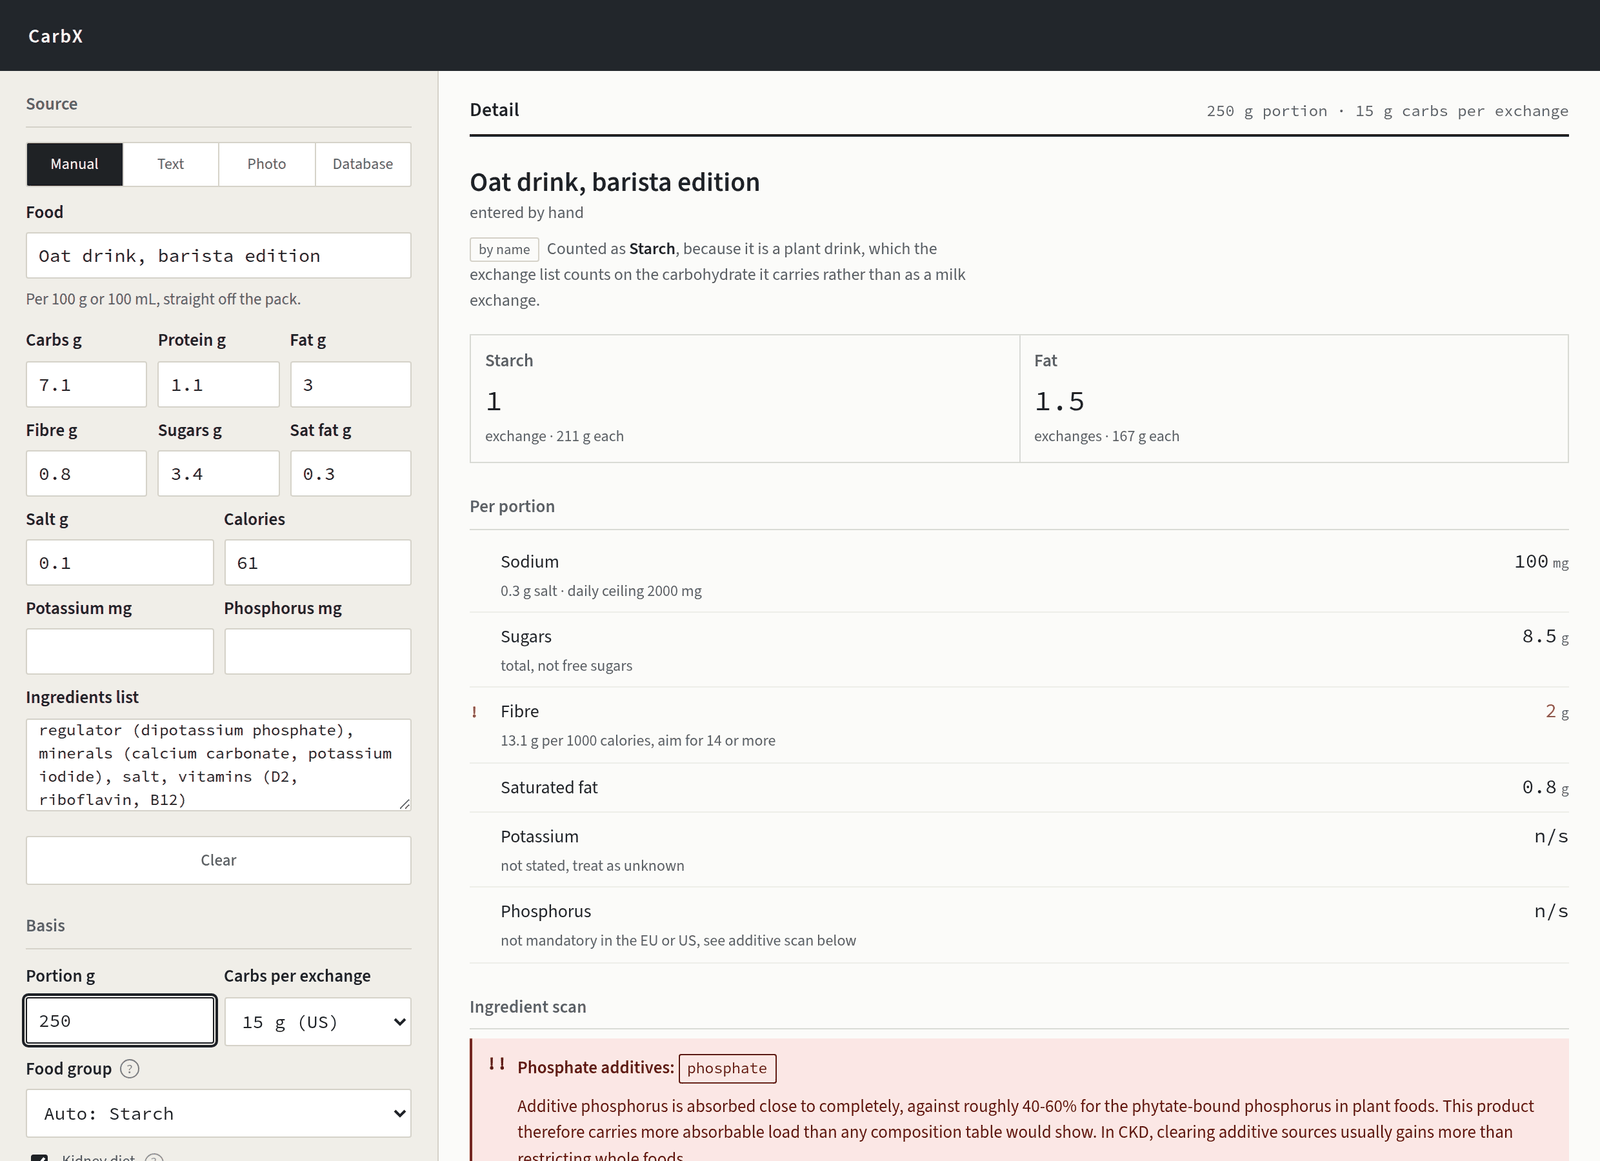
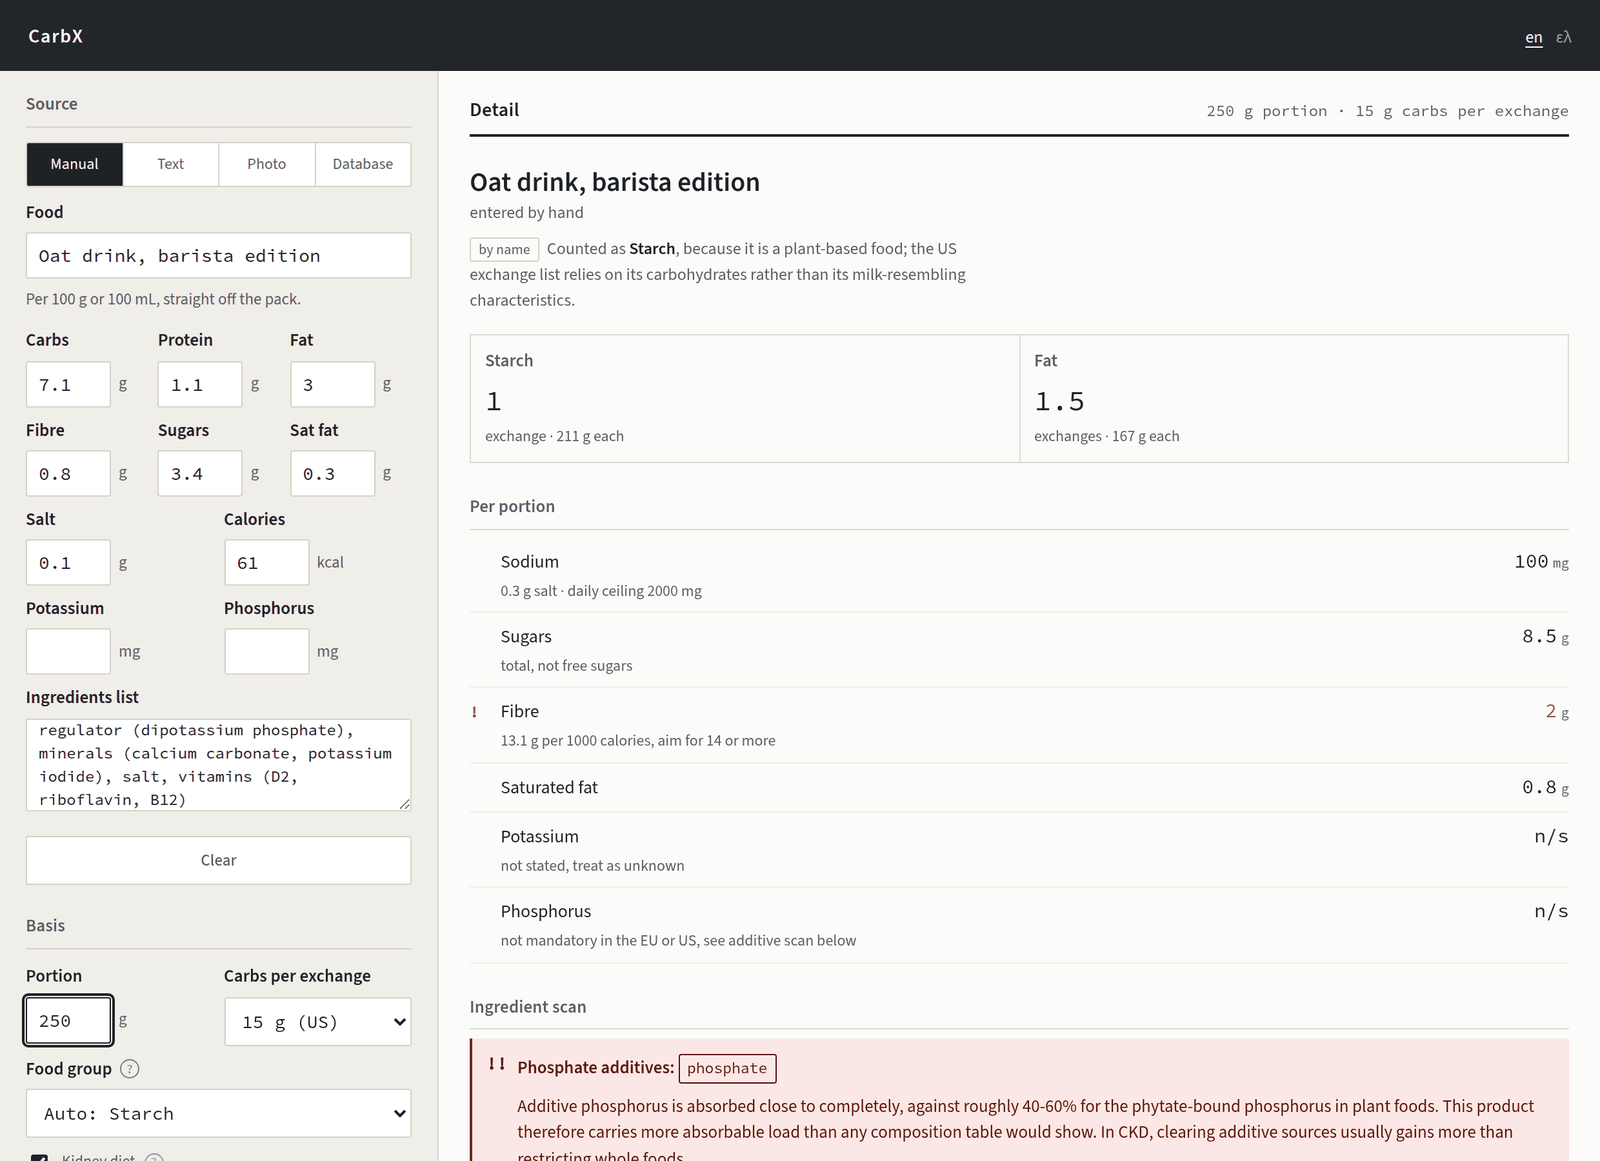
Refine exchange UI and i18n
This change updates the exchange form to show numeric fields with unit labels, fixes classification reason formatting so phrases read as fragments in the UI, and aligns the English/Greek translations with the new labels. It also adds a small linting improvement and a regression test to keep reason strings from turning into standalone sentences.

diff --git a/src/App.jsx b/src/App.jsx
@@ -28,7 +28,7 @@ const CSS = `
 .of-root *{box-sizing:border-box}
 .of-head{display:flex; align-items:baseline; gap:16px; flex-wrap:wrap;
   padding:18px 22px 14px; background:var(--bar); color:var(--sheet)}
-.of-langs{display:flex; gap:10px; align-items:baseline}
+.of-langs{display:flex; gap:10px; align-items:baseline; margin-left:auto}
 .of-langs button{background:none; border:0; padding:0; cursor:pointer;
   font-family:var(--sans); font-size:13px; color:#9AA0A6}
 .of-langs button:hover{color:var(--sheet)}
@@ -52,6 +52,11 @@ const CSS = `
 .of-in::placeholder,.of-ta::placeholder{color:#A4A8A2}
 .of-row{display:flex; gap:8px; margin-bottom:8px}
 .of-f{flex:1; min-width:0}
+/* The unit belongs to the value, not to the field name, so it sits against the
+   box. That also lets the box be only as wide as the few digits it holds. */
+.of-num{display:flex; align-items:center; gap:6px}
+.of-num .of-in{flex:0 1 66px; width:auto; min-width:0}
+.of-unit{font-size:12.5px; color:var(--muted); white-space:nowrap}
 .of-btn{width:100%; background:var(--signal); color:#fff; border:1px solid var(--signal); border-radius:2px; padding:9px;
   font-family:var(--sans); font-size:12.5px; letter-spacing:.005em; font-weight:500; cursor:pointer; margin-top:9px}
 .of-btn.ghost{background:var(--field); border-color:var(--line); color:var(--muted)}
@@ -173,6 +178,16 @@ function Help({ label, children }) {
       {open && <span className="pop" role="tooltip">{children}</span>}
     </span>);
 }
+function NumField({ label, unit, value, onChange }) {
+  return (
+    <div className="of-f">
+      <span className="of-lab">{label}</span>
+      <div className="of-num">
+        <input className="of-in" value={value} inputMode="decimal" onChange={onChange} />
+        <span className="of-unit">{unit}</span>
+      </div>
+    </div>);
+}
 function Line({ flag = "", name, sub, value, unit }) {
   const c = flag === "a" ? "var(--alert)" : flag === "w" ? "var(--warn)" : "var(--ink)";
   return (<div className="of-line">
@@ -248,6 +263,7 @@ export default function ExchangeLookup() {
   const [renal, setRenal] = useState(false);
   const [lang, setLang] = useState(initialLang);
   const t = translator(lang);
+  const reason = (key) => t("r_" + key).replace(/[.·]+\s*$/, "");
   const pickLang = (id) => {
     setLang(id);
     try { window.localStorage.setItem(LANG_KEY, id); } catch { /* storage unavailable */ }
@@ -456,25 +472,21 @@ export default function ExchangeLookup() {
                      placeholder={t("foodPlaceholder")} />
               <p className="of-hint">{t("per100")}</p>
               <div className="of-row" style={{ marginTop: 8 }}>
-                {[["cho", t("carbsG")], ["pro", t("proteinG")], ["fat", t("fatG")]].map(([k, l]) => (
-                  <div className="of-f" key={k}><span className="of-lab">{l}</span>
-                    <input className="of-in" value={rec[k]} inputMode="decimal" onChange={(e) => set(k, e.target.value)} /></div>))}
+                {[["cho", t("carbs"), "g"], ["pro", t("protein"), "g"], ["fat", t("fat"), "g"]].map(([k, l, u]) => (
+                  <NumField key={k} label={l} unit={u} value={rec[k]} onChange={(e) => set(k, e.target.value)} />))}
               </div>
               {detail && (<>
                 <div className="of-row">
-                  {[["fibre", t("fibreG")], ["sugars", t("sugarsG")], ["sfa", t("satFatG")]].map(([k, l]) => (
-                    <div className="of-f" key={k}><span className="of-lab">{l}</span>
-                      <input className="of-in" value={rec[k]} inputMode="decimal" onChange={(e) => set(k, e.target.value)} /></div>))}
+                  {[["fibre", t("fibre"), "g"], ["sugars", t("sugars"), "g"], ["sfa", t("satFat"), "g"]].map(([k, l, u]) => (
+                    <NumField key={k} label={l} unit={u} value={rec[k]} onChange={(e) => set(k, e.target.value)} />))}
                 </div>
                 <div className="of-row">
-                  {[["salt", t("saltG")], ["kcal", t("calories")]].map(([k, l]) => (
-                    <div className="of-f" key={k}><span className="of-lab">{l}</span>
-                      <input className="of-in" value={rec[k]} inputMode="decimal" onChange={(e) => set(k, e.target.value)} /></div>))}
+                  {[["salt", t("salt"), "g"], ["kcal", t("calories"), "kcal"]].map(([k, l, u]) => (
+                    <NumField key={k} label={l} unit={u} value={rec[k]} onChange={(e) => set(k, e.target.value)} />))}
                 </div>
                 <div className="of-row">
-                  {[["k", t("potassiumMg")], ["p", t("phosphorusMg")]].map(([k, l]) => (
-                    <div className="of-f" key={k}><span className="of-lab">{l}</span>
-                      <input className="of-in" value={rec[k]} inputMode="decimal" onChange={(e) => set(k, e.target.value)} /></div>))}
+                  {[["k", t("potassium"), "mg"], ["p", t("phosphorus"), "mg"]].map(([k, l, u]) => (
+                    <NumField key={k} label={l} unit={u} value={rec[k]} onChange={(e) => set(k, e.target.value)} />))}
                 </div>
                 <span className="of-lab" style={{ marginTop: 6 }}>{t("ingredients")}</span>
                 <textarea className="of-ta" rows={3} value={rec.ing} onChange={(e) => set("ing", e.target.value)}
@@ -489,8 +501,8 @@ export default function ExchangeLookup() {
           <div className="of-sect">
             <div className="of-legend">{t("basis")}</div>
             <div className="of-row">
-              <div className="of-f"><span className="of-lab">{t("portionG")}</span>
-                <input className="of-in" value={portion} inputMode="decimal" onChange={(e) => setPortion(e.target.value)} /></div>
+              <NumField label={t("portion")} unit="g" value={portion}
+                onChange={(e) => setPortion(e.target.value)} />
               {!detail && <div className="of-f" />}
               {detail && (
                 <div className="of-f"><span className="of-lab">{t("carbsPerExchange")}</span>
@@ -562,7 +574,7 @@ export default function ExchangeLookup() {
               <i>{override ? t("viaSet") : view.why.via === "name" ? t("viaName")
                 : view.why.via === "composition" ? t("viaFigures") : t("viaDefault")}</i>
               {t("countedAs")} <b>{t("g_" + view.gid)}</b>
-              {override ? "." : `, ${t("because")} ${t("r_" + view.why.key)}.`}
+              {override ? "." : `, ${t("because")} ${reason(view.why.key)}.`}
               {!override && view.why.via === "default" && ` ${t("setYourself")}`}
             </div>
             <div style={{ marginTop: 16 }}>{cards}</div>
@@ -581,10 +593,10 @@ export default function ExchangeLookup() {
             <div className="of-why">
               <i>{override ? t("viaSet") : view.why.via === "name" ? t("viaName")
                 : view.why.via === "composition" ? t("viaFigures") : t("viaDefault")}</i>
-              Counted as <b>{GLABEL[view.gid]}</b>
+              {t("countedAs")} <b>{t("g_" + view.gid)}</b>
               {override
-                ? `, ${t("setByHand")} ${t("g_" + view.auto)}, ${t("because")} ${t("r_" + view.why.key)}.`
-                : `, ${t("because")} ${t("r_" + view.why.key)}.`}
+                ? `, ${t("setByHand")} ${t("g_" + view.auto)}, ${t("because")} ${reason(view.why.key)}.`
+                : `, ${t("because")} ${reason(view.why.key)}.`}
             </div>
 
             <div style={{ marginTop: 16 }}>{cards}</div>

diff --git a/src/i18n.js b/src/i18n.js
@@ -8,10 +8,9 @@ export const LANGS = [
 const en = {
   understood: "Understood",
   notice:
-    "CarbX converts foods that are not on the printed exchange lists into exchange " +
-    "groups, for people managing their own diet and for the dietitians working with " +
-    "them. It is not a medical device, it does not calculate insulin doses, and it does " +
-    "not replace assessment by a dietitian. Check the parsed values against the pack.",
+    "CarbX calculates exchanges for food not included in exchange lists. It was designed for people managing " +
+    "their diet and for dietitians. It is not a medical device, it does not calculate insulin doses, " +
+    "and it does not replace assessment by a dietitian. Check the parsed values against the pack.",
 
   source: "Source",
   manual: "Manual",
@@ -51,22 +50,18 @@ const en = {
   food: "Food",
   foodPlaceholder: "description",
   per100: "Per 100 g or 100 mL, straight off the pack.",
-  carbsG: "Carbs g",
-  proteinG: "Protein g",
-  fatG: "Fat g",
-  fibreG: "Fibre g",
-  sugarsG: "Sugars g",
-  satFatG: "Sat fat g",
-  saltG: "Salt g",
+  carbs: "Carbs",
+  protein: "Protein",
+  fat: "Fat",
+  satFat: "Sat fat",
+  salt: "Salt",
   calories: "Calories",
-  potassiumMg: "Potassium mg",
-  phosphorusMg: "Phosphorus mg",
   ingredients: "Ingredients list",
   ingredientsPlaceholder: "paste for the additive scan",
   clear: "Clear",
 
   basis: "Basis",
-  portionG: "Portion g",
+  portion: "Portion",
   carbsPerExchange: "Carbs per exchange",
   unit15: "15 g (US)",
   unit10: "10 g (NL)",
@@ -217,8 +212,8 @@ const el = {
   understood: "Το κατάλαβα",
   notice:
     "Το CarbX μετατρέπει τρόφιμα που δεν υπάρχουν στους πίνακες ισοδυνάμων σε " +
-    "ισοδύναμα, για όσους διαχειρίζονται την διατροφή τους και για διαιτολόγους." +
-    "Δεν είναι ιατροτεχνολογικό προϊόν, δεν υπολογίζει δόσεις ινσουλίνης" +
+    "ισοδύναμα, για όσους διαχειρίζονται την διατροφή τους και για διαιτολόγους. " +
+    "Δεν είναι ιατροτεχνολογικό προϊόν, δεν υπολογίζει δόσεις ινσουλίνης και " +
     "δεν αντικαθιστά την εκτίμηση από διαιτολόγο. Ελέγξτε τις τιμές που " +
     "αναγνωρίστηκαν με τη συσκευασία.",
 
@@ -260,22 +255,18 @@ const el = {
   food: "Τρόφιμο",
   foodPlaceholder: "περιγραφή",
   per100: "Ανά 100 g ή 100 mL, όπως αναγράφεται στη συσκευασία.",
-  carbsG: "Υδατάνθρακες g",
-  proteinG: "Πρωτεΐνη g",
-  fatG: "Λιπαρά g",
-  fibreG: "Φυτικές ίνες g",
-  sugarsG: "Σάκχαρα g",
-  satFatG: "Κορεσμένα g",
-  saltG: "Αλάτι g",
+  carbs: "Υδατάνθρακες",
+  protein: "Πρωτεΐνη",
+  fat: "Λιπαρά",
+  satFat: "Κορεσμένα",
+  salt: "Αλάτι",
   calories: "Θερμίδες",
-  potassiumMg: "Κάλιο mg",
-  phosphorusMg: "Φώσφορος mg",
   ingredients: "Λίστα συστατικών",
   ingredientsPlaceholder: "επικολλήστε για τον έλεγχο προσθέτων",
   clear: "Καθαρισμός",
 
   basis: "Βάση υπολογισμού",
-  portionG: "Μερίδα g",
+  portion: "Μερίδα",
   carbsPerExchange: "Υδατάνθρακες ανά ισοδύναμο",
   unit15: "15 g (ΗΠΑ)",
   unit10: "10 g (Ολλανδία)",

diff --git a/src/lib/i18n.test.js b/src/lib/i18n.test.js
@@ -149,3 +149,19 @@ describe("the Greek interface and the Greek keyword lists agree", () => {
     expect(KEYWORDS.protein.any).toContain("χαλούμι");
   });
 });
+
+describe("classification reasons are sentence fragments", () => {
+  // The interface writes "Counted as Starch, because <reason>." and supplies
+  // the full stop, so a reason carrying its own produced "..". App.jsx strips a
+  // trailing stop defensively; this keeps the dictionary tidy as well.
+  it("does not start with a capital or read as a standalone sentence", () => {
+    const shouty = [];
+    for (const id of LANG_IDS) {
+      for (const [k, v] of Object.entries(STRINGS[id])) {
+        if (!k.startsWith("r_")) continue;
+        if (v[0] !== v[0].toLowerCase()) shouty.push(`${id}: ${k} starts with a capital`);
+      }
+    }
+    expect(shouty).toEqual([]);
+  });
+});

diff --git a/README.md b/README.md
@@ -8,10 +8,11 @@ languages.
 ### [carbx.gmiliarakis.com](https://carbx.gmiliarakis.com)
 
 ![An oat drink entered into CarbX. It is counted as 1 starch and 1.5 fat
-exchanges, with the reason given as "it is a plant drink, which the exchange
-list counts on the carbohydrate it carries rather than as a milk exchange". The
-kidney diet switch is on, so the ingredient scan has flagged the dipotassium
-phosphate in it as an additive phosphate source.](docs/carbx.png)
+exchanges, with the reason given as "it is a plant-based food; the US exchange
+list relies on its carbohydrates rather than its milk-resembling
+characteristics". The kidney diet switch is on, so the ingredient scan has
+flagged the dipotassium phosphate in it as an additive phosphate
+source.](docs/carbx.png)
 
 ✅ no account needed\
 ✅ no backend\
